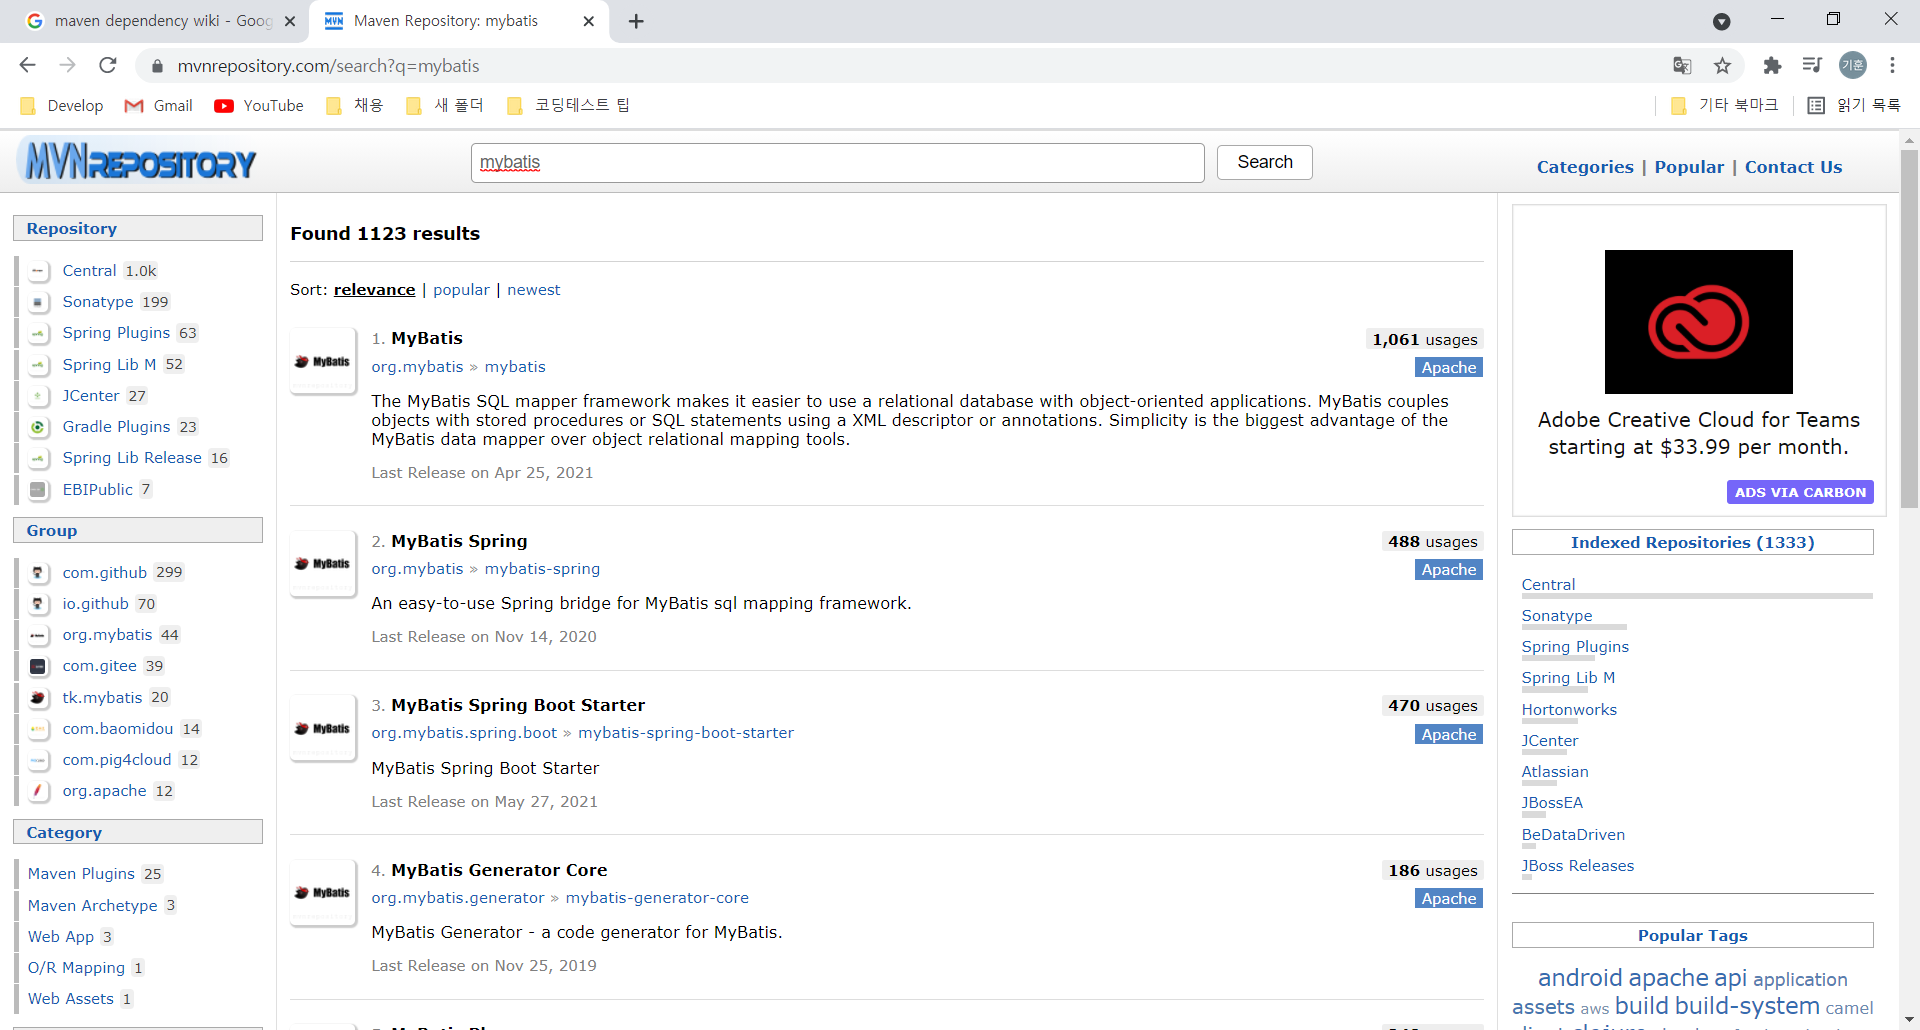
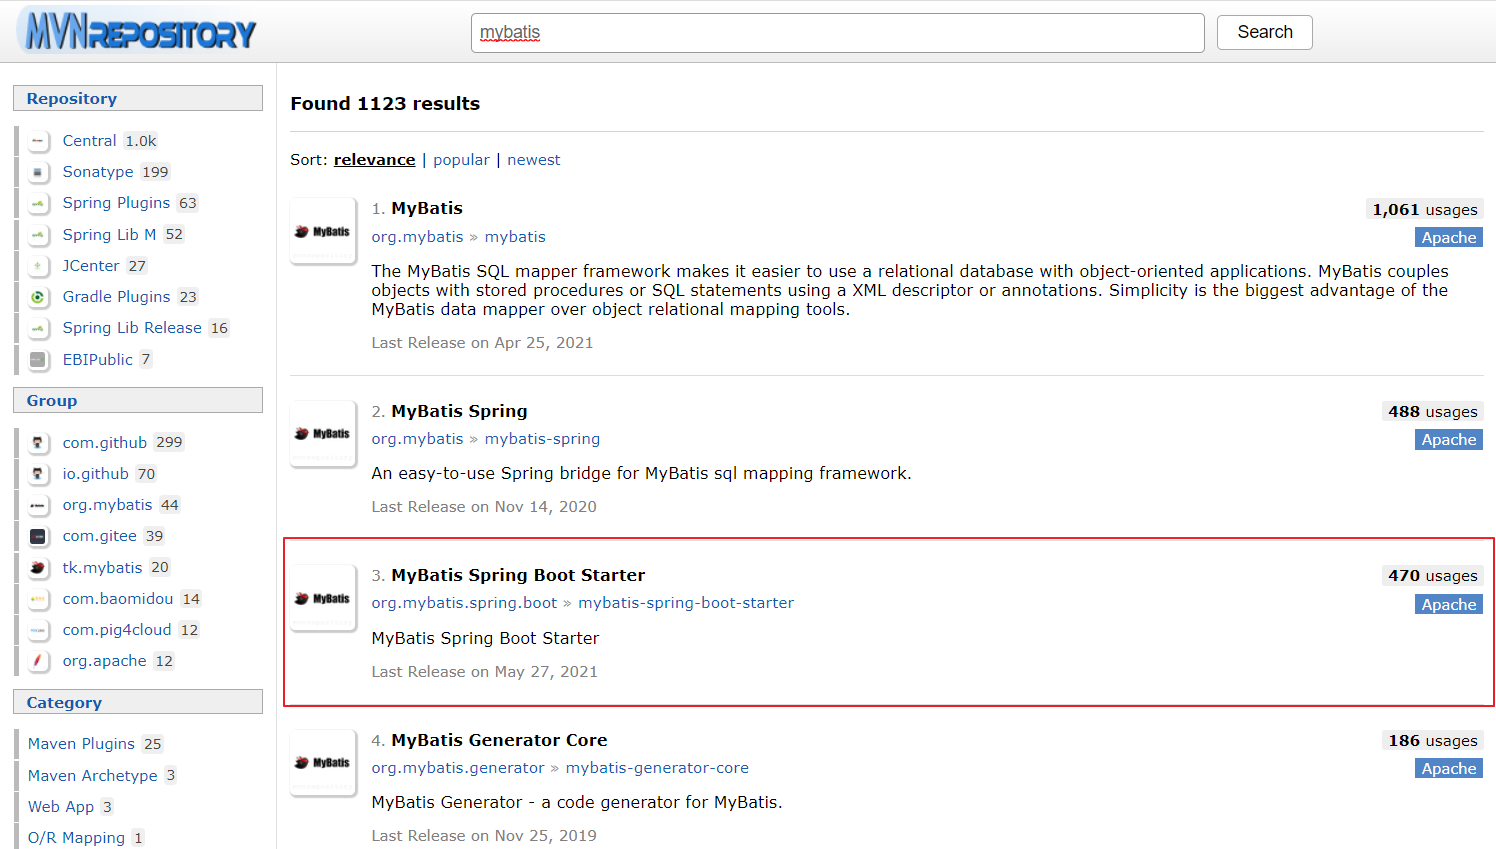
2020-06-06

diff --git a/content/blog/develop/backend/restapi/20210602-restful-api-docker-mysql.md b/content/blog/develop/backend/restapi/20210602-restful-api-docker-mysql.md
@@ -63,6 +63,185 @@ CREATE TABLE `UserProfile` (
 ## Dependency 추가 
 
 ### Dependency란 ? 
-> 자바 프로젝트 관리 도구인 <a href="https://ko.wikipedia.org/wiki/%EC%95%84%ED%8C%8C%EC%B9%98_%EB%A9%94%EC%9D%B4%EB%B8%90">아파치 메이븐</a>의 XML형태의 라이브러리(의존성)이며, Spring에서 Pom.xml에 추가하는 것을 의존성 주입이라 하며, 
-xml 형식으로 추가하면 <a href="https://mvnrepository.com/">Maven Repositoy</a>에서 라이브러리 파일을 자동으로 받아준다.
+> 자바 프로젝트 관리 도구인 <a href="https://ko.wikipedia.org/wiki/%EC%95%84%ED%8C%8C%EC%B9%98_%EB%A9%94%EC%9D%B4%EB%B8%90">아파치 메이븐</a>의 XML형태의 라이브러리(의존성) 정의이며, Spring에서 Pom.xml에 추가하는 것을 의존성 주입이라 하며, 
+Pom.xml에 xml 형식으로 추가하면 <a href="https://mvnrepository.com/">Maven Repositoy</a>에서 라이브러리 파일을 자동으로 받아준다.
+
+
+
+![contact](/images/develop/backend/demo-rest-api-2/003.png)
+
+![contact](/images/develop/backend/demo-rest-api-2/004.png)
+
+
+
+### pom.xml에 MysqlJ Dependency 추가
+> pom.xml은 /demo/pom.xml 프로젝트 최상단에서 찾아볼수 있습니다.
+> SpringBoot에 Mysql과 Mybatis를 추가하기 위하여 pom.xml에 해당 dependency를 추가할 것입니다.
+
+![contact](/images/develop/backend/demo-rest-api-2/003.png)
+
+> pom.xml은 아래와 같은 구조로 되어있으며, dependencies 밑의 dependency들 처럼 
+mysqlj와 mybatis를 추가하면 됩니다.
+
+![contact](/images/develop/backend/demo-rest-api-2/004.png)
+
+#### Maven Repositiry
+
+> dependency를 추가하기 위하여 <a href="https://mvnrepository.com/">Maven Repositiry</a>를 접속합니다.
+![contact](/images/develop/backend/demo-rest-api-2/005.png)
+
+#### MysqlJ (Mysql Connector for Java)
+>mysql connector를 받기 위하여 <mark>mysql j</mark> 를 검색합니다. mysqlj는 
+Mysql을 위한 <a href="https://ko.wikipedia.org/wiki/JDBC">JDBC</a> 입니다.
+
+![contact](/images/develop/backend/demo-rest-api-2/006.png)
+
+![contact](/images/develop/backend/demo-rest-api-2/007.png)
+
+![contact](/images/develop/backend/demo-rest-api-2/008.png)
+
+> Maven dependency xml 소스를 복사합니다.
+
+![contact](/images/develop/backend/demo-rest-api-2/009.png)
+
+> pom.xml에 붙여넣고 
+
+![contact](/images/develop/backend/demo-rest-api-2/011.png)
+
+> Mysql Connector의 버전을 제거합니다.
+> Spring Boot에서는 자주 사용하는 라이브러리에 한해서 SpringBoot 버전과 가장 호환이 잘되는 버전으로 빌드를 해주는 기능이 있기 때문에 
+버전은 제거해둡니다. 버전을 남겨두면 버전에 따라 waring이 뜰 수 있습니다.
+
+### pom.xml에 Mybatis Dependency 추가
+
+
+#### Mybatis
+> mybatis를 검색하고 Mybatis Spring Boot Starter를 선택합니다.
+>  <a href="https://ko.wikipedia.org/wiki/%EB%A7%88%EC%9D%B4%EB%B0%94%ED%8B%B0%EC%8A%A4">마이바티스(MyBatis)</a>는 자바 <a href="https://ko.wikipedia.org/wiki/%ED%8D%BC%EC%8B%9C%EC%8A%A4%ED%84%B4%EC%8A%A4_%ED%94%84%EB%A0%88%EC%9E%84%EC%9B%8C%ED%81%AC">퍼시스턴스 프레임워크</a>의 하나로 XML 서술자나 애너테이션(annotation)을 사용하여 저장 프로시저나 SQL 문으로 객체들을 연결시키는데 도움을 줍니다.
+
+
+![contact](/images/develop/backend/demo-rest-api-2/012.png)
+
+![contact](/images/develop/backend/demo-rest-api-2/013.png)
+
+![contact](/images/develop/backend/demo-rest-api-2/015.png)
+
+> 마찬가지로 Mybatis Maven dependency xml pom.xml에 붙여넣습니다.
+
+![contact](/images/develop/backend/demo-rest-api-2/016.png)
+
+### application.properties 설정
+> /demo/src/main/resources/application.properties 파일을 수정합니다.
+
+> application.properties 파일에 Mysql 접속 정보를 추가합니다.
+
+![contact](/images/develop/backend/demo-rest-api-2/018.png)
+
+```
+spring.datasource.url = jdbc:mysql://localhost:[port]/test?useUnicode=true&characterEncoding=utf8&serverTimezone=Asia/Seoul&useSSL=false
+
+spring.datasource.username = [userId]
+
+spring.datasource.password = [password]
+```
+
+> 프로젝트 우클릭 > Maven > Update Poject를 통하여 추가한 라이브러리들을 받습니다.
+
+![contact](/images/develop/backend/demo-rest-api-2/020.png)
+
+
+## UserProfile 테이블 생성
+> 기존에 만들었던 com.example.demo.model.UserProfile의 필드들을 토대로 UserProfile 테이블을 생성합니다.
+
+```
+package com.example.demo.model;
+
+public class UserProfile {
+	private String id;
+	private String name;
+	private String phone;
+	private String address;
+	
+	public UserProfile(String id, String name, String phone, String address) {
+		super();
+		this.id = id;
+		this.name = name;
+		this.phone = phone;
+		this.address = address;
+	}
+
+	public String getId() {
+		return id;
+	}
+
+	public void setId(String id) {
+		this.id = id;
+	}
+
+	public String getName() {
+		return name;
+	}
+
+	public void setName(String name) {
+		this.name = name;
+	}
+
+	public String getPhone() {
+		return phone;
+	}
+
+	public void setPhone(String phone) {
+		this.phone = phone;
+	}
+
+	public String getAddress() {
+		return address;
+	}
+
+	public void setAddress(String address) {
+		this.address = address;
+	}
+ }
+```
+
+### UserProfile 테이블 엔티티
+> Id를 키로 잡고 나머지 
+![contact](/images/develop/backend/demo-rest-api-2/001.png)
+
+### UserProfile 테이블 생성쿼리
+![contact](/images/develop/backend/demo-rest-api-2/002.png)
+
+```
+CREATE TABLE `UserProfile` (
+  `id` varchar(64) NOT NULL DEFAULT '',
+  `name` varchar(64) DEFAULT NULL,
+  `phone` varchar(64) DEFAULT NULL,
+  `address` varchar(256) DEFAULT NULL,
+  PRIMARY KEY (`id`)
+) ENGINE=InnoDB DEFAULT CHARSET=utf8;
+```
+
+## Mapper 생성
+
+### Mapper 
+> Mybatis 매핑XML에 기재된 SQL을 호출하기 위한 인터페이스입니다. 
+> 스프링부트, mybatis 3.0이상에서는 Mapper를 통하여 <a href="https://dadmi97.tistory.com/78">SqlSession</a>을 등록을 생략하고, <a href="https://ko.wikipedia.org/wiki/%EB%8D%B0%EC%9D%B4%ED%84%B0_%EC%A0%91%EA%B7%BC_%EA%B0%9D%EC%B2%B4">DAO</a> 인터페이스와 인터페이스 구현을 하지 않고 바로 SQL을 호출 할 수 있습니다.
+> @mapper 어노테이션을 이용해 메서드명과 xml 파일의 id를 매핑시켜 편리하게 사용 할 수 있습니다.
+
+
+
+### UserProfileMapper.java 파일 생성
+> /demo/src/main/java/com/example/demo/mapper 패키지를 생성합니다.
+
+![contact](/images/develop/backend/demo-rest-api-2/021.png)
+
+![contact](/images/develop/backend/demo-rest-api-2/022.png)
+
+### UserProfileMapper 
+
+![contact](/images/develop/backend/demo-rest-api-2/025.png)
+
+![contact](/images/develop/backend/demo-rest-api-2/026.png)
+
+
 
